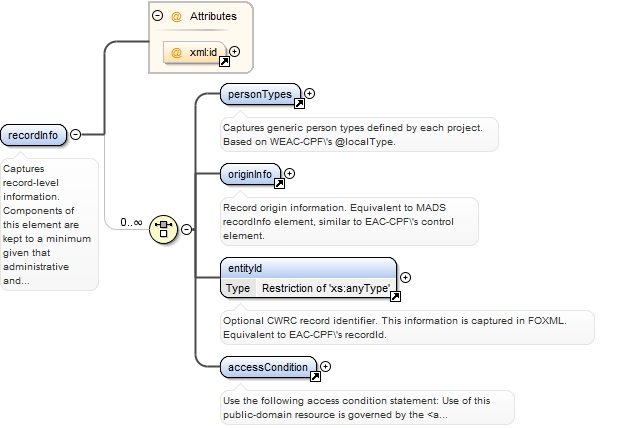
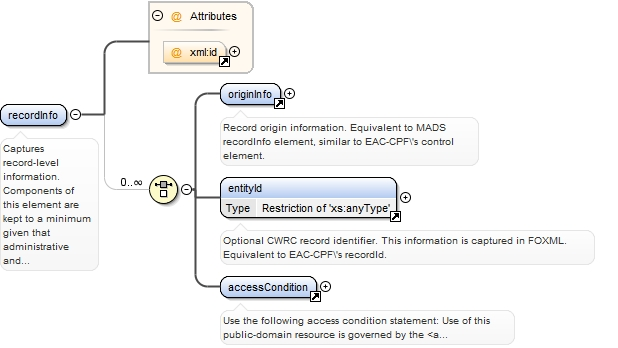
Entities schema and documentation changes [MRB]

Changed region(s): [[0.1537, 0.0, 0.9223, 0.977], [0.0, 0.2874, 0.1845, 0.7759]]

diff --git a/schema/documentation/entities/index.html b/schema/documentation/entities/index.html
@@ -2315,7 +2315,7 @@
                            <div class="floatRight"><input id="button_diagram_personRecordInfo-element_recordInfo" type="image" src="img/btM.gif" value="-" onclick="switchState('diagram_personRecordInfo-element_recordInfo');" class="control" /></div>
                         </td>
                         <td class="diagram">
-                           <div id="diagram_personRecordInfo-element_recordInfo" style="display:block"><img alt="Diagram" border="0" src="img/entities_xsd_Element_recordInfo_2.jpeg" usemap="#entities_xsd_Element_recordInfo_2" /><map name="entities_xsd_Element_recordInfo_2" id="entities_xsd_Element_recordInfo_2">
+                           <div id="diagram_personRecordInfo-element_recordInfo" style="display:block"><img alt="Diagram" border="0" src="img/entities_xsd_Element_recordInfo.jpeg" usemap="#entities_xsd_Element_recordInfo" /><map name="entities_xsd_Element_recordInfo" id="entities_xsd_Element_recordInfo">
                                  <area alt="index.tmp#id" href="index.html#id" coords="163,41,240,66" />
                                  <area alt="index.tmp#personTypes" href="index.html#personTypes" coords="220,83,315,108" />
                                  <area alt="index.tmp#originInfo" href="index.html#originInfo" coords="220,163,295,188" />
@@ -10163,7 +10163,7 @@
                            <div class="floatRight"><input id="button_diagram_orgRecordInfo-element_recordInfo" type="image" src="img/btM.gif" value="-" onclick="switchState('diagram_orgRecordInfo-element_recordInfo');" class="control" /></div>
                         </td>
                         <td class="diagram">
-                           <div id="diagram_orgRecordInfo-element_recordInfo" style="display:block"><img alt="Diagram" border="0" src="img/entities_xsd_Element_recordInfo.jpeg" usemap="#entities_xsd_Element_recordInfo" /><map name="entities_xsd_Element_recordInfo" id="entities_xsd_Element_recordInfo">
+                           <div id="diagram_orgRecordInfo-element_recordInfo" style="display:block"><img alt="Diagram" border="0" src="img/entities_xsd_Element_recordInfo_1.jpeg" usemap="#entities_xsd_Element_recordInfo_1" /><map name="entities_xsd_Element_recordInfo_1" id="entities_xsd_Element_recordInfo_1">
                                  <area alt="index.tmp#id" href="index.html#id" coords="163,41,240,66" />
                                  <area alt="index.tmp#originInfo" href="index.html#originInfo" coords="220,83,295,108" />
                                  <area alt="index.tmp#entityId" href="index.html#entityId" coords="220,177,411,221" />
@@ -11109,7 +11109,7 @@
                            <div class="floatRight"><input id="button_diagram_placeRecordInfo-element_recordInfo" type="image" src="img/btM.gif" value="-" onclick="switchState('diagram_placeRecordInfo-element_recordInfo');" class="control" /></div>
                         </td>
                         <td class="diagram">
-                           <div id="diagram_placeRecordInfo-element_recordInfo" style="display:block"><img alt="Diagram" border="0" src="img/entities_xsd_Element_recordInfo_1.jpeg" usemap="#entities_xsd_Element_recordInfo_1" /><map name="entities_xsd_Element_recordInfo_1" id="entities_xsd_Element_recordInfo_1">
+                           <div id="diagram_placeRecordInfo-element_recordInfo" style="display:block"><img alt="Diagram" border="0" src="img/entities_xsd_Element_recordInfo_3.jpeg" usemap="#entities_xsd_Element_recordInfo_3" /><map name="entities_xsd_Element_recordInfo_3" id="entities_xsd_Element_recordInfo_3">
                                  <area alt="index.tmp#id" href="index.html#id" coords="163,41,240,66" />
                                  <area alt="index.tmp#originInfo" href="index.html#originInfo" coords="220,83,295,108" />
                                  <area alt="index.tmp#entityId" href="index.html#entityId" coords="220,177,411,221" />
@@ -12611,7 +12611,7 @@
                            <div class="floatRight"><input id="button_diagram_recordInfo-element_recordInfo" type="image" src="img/btM.gif" value="-" onclick="switchState('diagram_recordInfo-element_recordInfo');" class="control" /></div>
                         </td>
                         <td class="diagram">
-                           <div id="diagram_recordInfo-element_recordInfo" style="display:block"><img alt="Diagram" border="0" src="img/entities_xsd_Element_recordInfo_3.jpeg" usemap="#entities_xsd_Element_recordInfo_3" /><map name="entities_xsd_Element_recordInfo_3" id="entities_xsd_Element_recordInfo_3">
+                           <div id="diagram_recordInfo-element_recordInfo" style="display:block"><img alt="Diagram" border="0" src="img/entities_xsd_Element_recordInfo_2.jpeg" usemap="#entities_xsd_Element_recordInfo_2" /><map name="entities_xsd_Element_recordInfo_2" id="entities_xsd_Element_recordInfo_2">
                                  <area alt="index.tmp#id" href="index.html#id" coords="163,41,240,66" />
                                  <area alt="index.tmp#originInfo" href="index.html#originInfo" coords="220,83,295,108" />
                                  <area alt="index.tmp#entityId" href="index.html#entityId" coords="220,177,411,221" />
